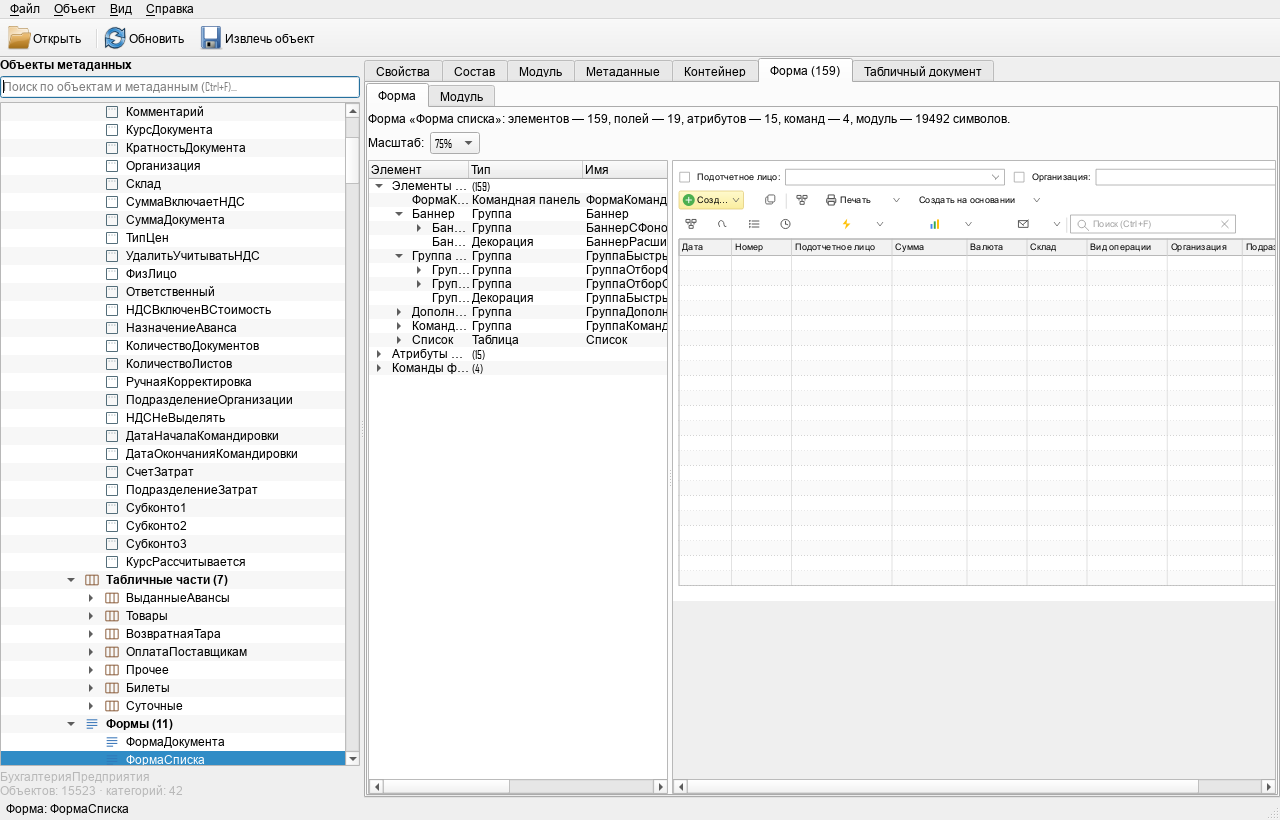
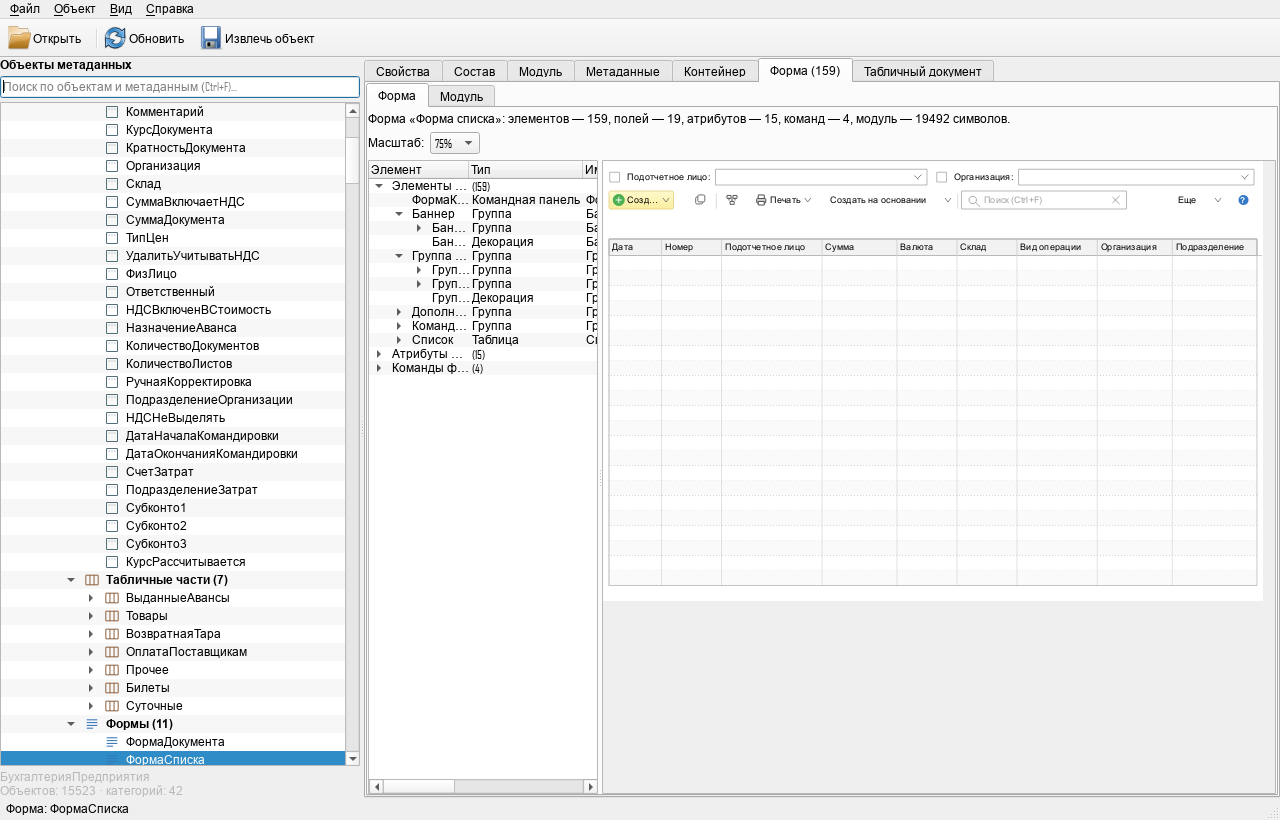
feat(forms): командная панель 1С с «Еще» и правым краем

Changed region(s): [[0.4688, 0.2134, 0.7188, 0.7317], [0.7188, 0.2134, 1.0, 0.3049], [0.5, 0.9451, 0.5312, 0.9756]]

diff --git a/src/gui/FormView.cpp b/src/gui/FormView.cpp
@@ -336,9 +336,16 @@ private:
             return std::max(40.0, m_metrics.horizontalAdvance(item.synonym) + 10.0);
         case Type::Group: {
             if (item.groupKind == 1) {
+                const ButtonIcon icon = iconForButton(item);
+                const bool iconOnly = icon != ButtonIcon::None
+                    && icon != ButtonIcon::Create
+                    && icon != ButtonIcon::CreateBasedOn
+                    && icon != ButtonIcon::Print;
+                if (iconOnly)
+                    return 34.0;
                 const QString title = item.synonym.isEmpty()
                     ? humanizeCommand(item.name) : item.synonym;
-                return std::max(110.0,
+                return std::max(64.0,
                     m_metrics.horizontalAdvance(title) + 44.0);
             }
             if (item.widthUnits > 0)
@@ -371,10 +378,22 @@ private:
 
     bool isTopCommandBar(const v8reader::FormItem &item) const
     {
-        return item.type == v8reader::FormItem::Type::Group
-            && item.groupKind == 0
+        if (item.type != v8reader::FormItem::Type::Group)
+            return false;
+        if (item.groupKind == 0
             && (item.name.contains(QStringLiteral("КоманднаяПанель"))
-                || item.synonym == QStringLiteral("Командная панель"));
+                || item.synonym == QStringLiteral("Командная панель"))) {
+            return true;
+        }
+        // В форме документа командная панель — группа вида 6 с именем
+        // «ГруппаКнопкиКоманднойПанели»; внешняя группа вида 9 не в счёт.
+        if (item.groupKind == 6
+            && (item.name.contains(QStringLiteral("КоманднойПанели"))
+                || item.synonym.contains(QStringLiteral("командн"),
+                                         Qt::CaseInsensitive))) {
+            return true;
+        }
+        return false;
     }
 
     bool isCommandBar(const v8reader::FormItem &item) const
@@ -573,6 +592,8 @@ private:
     bool stretchable(const v8reader::FormItem &item) const
     {
         using Type = v8reader::FormItem::Type;
+        if (isTopCommandBar(item))
+            return true;
         if (item.horizontalStretch == 0)
             return false;
         if (item.widthUnits > 0 && item.horizontalStretch != 1)
@@ -590,8 +611,15 @@ private:
     {
         QVector<const v8reader::FormItem *> visible;
         for (const v8reader::FormItem *item : items) {
-            if (!item->name.endsWith(QStringLiteral("Использование")))
-                visible.append(item);
+            if (item->name.endsWith(QStringLiteral("Использование")))
+                continue;
+            // Служебный элемент «управление поиском» платформа рисует
+            // маленькой кнопкой-магнитиком; в предпросмотре он не нужен.
+            if (item->type == v8reader::FormItem::Type::Search
+                && item->name.contains(QStringLiteral("УправлениеПоиском"))) {
+                continue;
+            }
+            visible.append(item);
         }
         if (visible.isEmpty())
             return 0.0;
@@ -636,15 +664,19 @@ private:
 
         const QHash<QString, QString> usage = usageLabels(items);
 
-        // 1С добавляет в форму списка документа команды, которых нет в модели.
+        // 1С добавляет в форму команды, которых нет в модели: для формы
+        // списка — «Создать на основании», для любой формы — «Еще» и «?».
+        const bool listBar = runtimeCommands && m_document.runtimeListCommands;
         v8reader::FormItem createBasedOn;
         v8reader::FormItem more;
         v8reader::FormItem help;
-        if (runtimeCommands && m_document.runtimeListCommands) {
-            createBasedOn.type = v8reader::FormItem::Type::Group;
-            createBasedOn.groupKind = 1;
-            createBasedOn.name = QStringLiteral("СоздатьНаОсновании");
-            createBasedOn.synonym = QStringLiteral("Создать на основании");
+        if (runtimeCommands) {
+            if (listBar) {
+                createBasedOn.type = v8reader::FormItem::Type::Group;
+                createBasedOn.groupKind = 1;
+                createBasedOn.name = QStringLiteral("СоздатьНаОсновании");
+                createBasedOn.synonym = QStringLiteral("Создать на основании");
+            }
             more.type = v8reader::FormItem::Type::Group;
             more.groupKind = 1;
             more.name = QStringLiteral("Еще");
@@ -654,25 +686,61 @@ private:
             help.name = QStringLiteral("Справка");
             help.synonym = QStringLiteral("?");
 
-            int insertAt = 0;
-            for (int i = 0; i < visible.size(); ++i) {
-                if (visible.at(i)->name == QStringLiteral("Создать")) {
-                    insertAt = i + 1;
-                    break;
+            if (listBar) {
+                int insertAt = 0;
+                for (int i = 0; i < visible.size(); ++i) {
+                    if (visible.at(i)->name == QStringLiteral("Создать")) {
+                        insertAt = i + 1;
+                        break;
+                    }
                 }
-            }
-            // «Создать на основании» в 1С стоит после кнопок важных команд.
-            for (int i = insertAt; i < visible.size(); ++i) {
-                const v8reader::FormItem *item = visible.at(i);
-                if (item->type == v8reader::FormItem::Type::Group
-                    && item->groupKind == 6) {
-                    insertAt = i + 1;
-                    break;
+                // «Создать на основании» в 1С стоит после кнопок важных команд.
+                for (int i = insertAt; i < visible.size(); ++i) {
+                    const v8reader::FormItem *item = visible.at(i);
+                    if (item->type == v8reader::FormItem::Type::Group
+                        && item->groupKind == 6) {
+                        insertAt = i + 1;
+                        break;
+                    }
                 }
+                visible.insert(insertAt, &createBasedOn);
             }
-            visible.insert(insertAt, &createBasedOn);
             visible.append(&more);
             visible.append(&help);
+        }
+
+        auto estimatedWidth = [&](const v8reader::FormItem *item) {
+            double width = std::max(34.0, preferredWidth(*item));
+            if (dropDownButtons.contains(item))
+                width += 12.0;
+            return width;
+        };
+        auto totalWidth = [&](const QVector<const v8reader::FormItem *> &items) {
+            double total = 0.0;
+            for (const v8reader::FormItem *item : items)
+                total += estimatedWidth(item);
+            if (items.size() > 1)
+                total += 8.0 * (items.size() - 1);
+            return total;
+        };
+
+        // Как и 1С, при нехватке ширины сворачиваем глобальные команды и
+        // служебные кнопки в «Еще», вместо переноса панели на вторую строку.
+        if (runtimeCommands && totalWidth(visible) > rect.width()) {
+            QVector<const v8reader::FormItem *> filtered;
+            for (const v8reader::FormItem *item : visible) {
+                const bool globalGroup = item->type == v8reader::FormItem::Type::Group
+                    && item->groupKind == 6
+                    && item->name.contains(QStringLiteral("ГлобальныеКоманды"));
+                const bool minorButton = item->type == v8reader::FormItem::Type::Button
+                    && (item->name.contains(QStringLiteral("КонтекстныеНовости"))
+                        || item->name.contains(QStringLiteral("ОткрытьНовоеОкно")));
+                if (globalGroup || minorButton)
+                    continue;
+                filtered.append(item);
+            }
+            if (!filtered.isEmpty())
+                visible = filtered;
         }
 
         // Кнопка по умолчанию в 1С подсвечена жёлтым. Она выбирается после
@@ -680,12 +748,8 @@ private:
         // для формы документа.
 
         QVector<double> widths;
-        for (int i = 0; i < visible.size(); ++i) {
-            double width = std::max(34.0, preferredWidth(*visible.at(i)));
-            if (dropDownButtons.contains(visible.at(i)))
-                width += 12.0;
-            widths.append(width);
-        }
+        for (int i = 0; i < visible.size(); ++i)
+            widths.append(estimatedWidth(visible.at(i)));
 
         // В командной панели 1С разделяет группы команд вертикальными линиями.
         QVector<bool> separatorBefore(visible.size(), false);
@@ -760,10 +824,34 @@ private:
                 rowHeight = std::max(rowHeight,
                     naturalHeight(*visible.at(row.at(i)), rowWidths.at(i)));
 
+            // Поиск, «Еще» и «?» в 1С прижаты к правому краю командной панели.
+            int rightStart = -1;
+            if (runtimeCommands) {
+                for (int c = 0; c < row.size(); ++c) {
+                    const v8reader::FormItem *item = visible.at(row.at(c));
+                    const bool search = item->type == v8reader::FormItem::Type::Search
+                        && item->name.contains(QStringLiteral("СтрокаПоиска"));
+                    if (search || item->name == QStringLiteral("Еще")
+                        || item->name == QStringLiteral("Справка")) {
+                        rightStart = c;
+                        break;
+                    }
+                }
+            }
+            double rowUsed = 0.0;
+            for (int c = 0; c < row.size(); ++c)
+                rowUsed += rowWidths.at(c);
+            if (row.size() > 1)
+                rowUsed += 8.0 * (row.size() - 1);
+            const double rightShift = (rightStart > 0 && rowUsed < rect.width())
+                ? rect.width() - rowUsed : 0.0;
+
             double x = rect.left();
             for (int c = 0; c < row.size(); ++c) {
                 const int index = row.at(c);
                 const v8reader::FormItem *item = visible.at(index);
+                if (c == rightStart)
+                    x += rightShift;
                 if (separatorBefore.at(index) && c > 0) {
                     PreviewControl line;
                     line.kind = PreviewControl::Kind::Separator;
@@ -1433,6 +1521,7 @@ public:
     explicit FormPreviewWidget(QWidget *parent = nullptr)
         : QWidget(parent)
     {
+        setObjectName(QStringLiteral("formPreview"));
         setMinimumHeight(260);
         setSizePolicy(QSizePolicy::Fixed, QSizePolicy::Fixed);
         setAutoFillBackground(true);
@@ -1537,7 +1626,7 @@ private:
         update();
     }
 
-    static constexpr double kFormWidth = 900.0;
+    static constexpr double kFormWidth = 880.0;
 
     const v8reader::FormDocument *m_document = nullptr;
     QVector<PreviewControl> m_controls;
@@ -1603,7 +1692,9 @@ FormView::FormView(QWidget *parent)
     splitter->addWidget(scroll);
     splitter->setStretchFactor(0, 0);
     splitter->setStretchFactor(1, 1);
-    splitter->setSizes({300, 900});
+    // Дереву элементов достаточно узкой колонки: форма должна занимать
+    // основную часть панели, как клиентское окно в 1С.
+    splitter->setSizes({230, 970});
     layout->addWidget(splitter, 1);
     m_tabs->addTab(formPage, QStringLiteral("Форма"));
 

diff --git a/tests/test_gui_panels.cpp b/tests/test_gui_panels.cpp
@@ -36,6 +36,7 @@ private slots:
     void recentFilesOpenAndMissing();
     void extractionMessages();
     void formViewModuleTab();
+    void formPreviewRenders();
     void highlightSettingsDialog();
     void highlighterUsesCustomColors();
 };
@@ -187,6 +188,46 @@ void TestGuiPanels::formViewModuleTab()
     for (int i = 0; i < tree->topLevelItemCount(); ++i) {
         QVERIFY(tree->topLevelItem(i)->text(0) != QStringLiteral("Модуль формы"));
     }
+}
+
+void TestGuiPanels::formPreviewRenders()
+{
+    FormDocument document;
+    document.name = QStringLiteral("Форма1");
+    document.synonym = QStringLiteral("Форма 1");
+    document.runtimeListCommands = true;
+
+    FormItem bar;
+    bar.type = FormItem::Type::Group;
+    bar.groupKind = 0;
+    bar.name = QStringLiteral("ГруппаКоманднаяПанель");
+    FormItem create;
+    create.type = FormItem::Type::Button;
+    create.name = QStringLiteral("Создать");
+    create.synonym = QStringLiteral("Создать");
+    bar.children.append(create);
+    document.items.append(bar);
+
+    FormItem table;
+    table.type = FormItem::Type::Table;
+    table.name = QStringLiteral("Список");
+    FormItem column;
+    column.type = FormItem::Type::Field;
+    column.name = QStringLiteral("Дата");
+    column.synonym = QStringLiteral("Дата");
+    table.children.append(column);
+    document.items.append(table);
+
+    FormView view;
+    view.resize(1200, 800);
+    view.setDocument(document);
+    view.show();
+    QTest::qWait(20);
+
+    auto *preview = view.findChild<QWidget *>(QStringLiteral("formPreview"));
+    QVERIFY(preview);
+    QVERIFY(preview->width() > 300);
+    QVERIFY(!view.grab().isNull());
 }
 
 void TestGuiPanels::highlightSettingsDialog()

diff --git a/docs/research/forms-format.md b/docs/research/forms-format.md
@@ -87,11 +87,15 @@
 - командная панель плоская: у кнопок нет фона и рамки, иконки 16×16;
   кнопка по умолчанию («Создать» в форме списка, «Провести и закрыть»
   в форме документа) заливается жёлтым градиентом;
+- при нехватке ширины глобальные команды и служебные кнопки (новости,
+  новое окно) сворачиваются в «Еще»; поиск, «Еще» и «?» прижаты к правому
+  краю панели. «Еще» и «?» добавляются в любую форму с командной панелью,
+  включая списки справочников;
 - подписи полей выровнены по правому краю, двоеточие отделено от поля;
   у быстрого отбора флажок стоит перед подписью;
 - подменю (`ПодменюСоздать`, `ПодменюПечать`, …) не выводится отдельной
   кнопкой: если рядом есть кнопка с тем же именем, подменю становится её
-  выпадающим списком;
+  выпадающим списком; подменю-иконки занимают 34 px, а не 110;
 - для формы документа платформа добавляет «Провести и закрыть», «Записать»
   и «Провести»; в бинарной форме их нет, поэтому они синтезируются в
   `LayoutEngine::build` по флагу `FormDocument::runtimeDocumentCommands`.
@@ -203,9 +207,10 @@ HorizontalStretch=1; `ГруппаБаннерОжидание` — Width 24 (24
   (другая структура) отклоняются.
 - Раскладка схематичная: 1С использует собственный autolayout, поэтому
   позиции элементов приближены, а не совпадают пиксель в пиксель.
-- Ширина предпросмотра фиксирована (900 логических px), поэтому на узкой
-  панели командная панель переносится на вторую строку, а не сворачивается
-  в «Еще», как это делает платформа.
+- Ширина предпросмотра фиксирована (880 логических px): при 75% форма
+  целиком помещается в панели, при 100% и более появляется горизонтальная
+  прокрутка. Командная панель при этом сворачивает лишние команды в «Еще»,
+  как 1С, но не подстраивает ширину формы под окно.
 - Набор колонок таблицы — все поля формы. В 1С видимый набор колонок
   хранится в пользовательских настройках, а не в форме, поэтому по умолчанию
   колонок может быть меньше.
@@ -218,8 +223,8 @@ HorizontalStretch=1; `ГруппаБаннерОжидание` — Width 24 (24
 
 1. Точный autolayout: горизонтальные/вертикальные группы, растяжения,
    страницы, таблицы — с учётом свойств элементов.
-2. Сворачивание не помещающихся команд в «Еще» и адаптивная ширина формы
-   под панель просмотра, как в 1С.
+2. Адаптивная ширина формы под панель просмотра и сохранение пропорций
+   при масштабировании.
 3. Свойства элемента при выборе в дереве (данные, обработчики, оформление).
 4. Список атрибутов/команд с типами и признаком «основной реквизит».
 5. Обычные (неуправляемые) формы.

diff --git a/CHANGELOG.md b/CHANGELOG.md
@@ -13,7 +13,8 @@
   `CommandUtils`/`CommandCommon`, диспетчеризация осталась в `CliApplication`.
 - Из `MainWindow` выделены `RecentFilesController` (недавние файлы, меню,
   проверка существования) и `ExtractionController` (выгрузка и текст отчёта).
-- GUI-тесты дополнены проверками недавних файлов и сообщений выгрузки.
+- GUI-тесты дополнены проверками недавних файлов, сообщений выгрузки и
+  отрисовки предпросмотра формы.
 - В просмотре формы появилась отдельная вкладка «Модуль» с текстом модуля
   формы и подсветкой; узлы «Модуль формы» убраны из дерева метаданных.
 - Добавлена настройка подсветки модулей: включение, цвета ключевых слов,
@@ -31,11 +32,18 @@
   жёлтым, подписи полей выровнены по правому краю, флажок быстрого отбора
   стоит перед подписью, таблица получила шапку без полужирного начертания
   и точечную сетку строк.
+- Командная панель ведёт себя как в 1С: при нехватке ширины глобальные
+  команды и служебные кнопки сворачиваются в «Еще», а поиск, «Еще» и «?»
+  прижаты к правому краю. «Еще» и «?» добавляются в любую форму с командной
+  панелью, в том числе в формы справочников.
 - Подменю командной панели (`ПодменюСоздать`, `ПодменюПечать` и т. п.)
   больше не рисуется отдельной кнопкой: если рядом есть кнопка с тем же
-  именем, подменю становится её выпадающим списком.
+  именем, подменю становится её выпадающим списком; подменю-иконки получили
+  компактную ширину.
 - В форму документа добавлены стандартные команды платформы «Провести и
   закрыть», «Записать» и «Провести» (в бинарной форме их нет).
+- Дерево элементов формы стало уже, а сама форма шире: при масштабе 75%
+  она целиком помещается в панели просмотра, как окно 1С.
 
 ## [0.6.1] — 2026-11-18
 

diff --git a/README.md b/README.md
@@ -61,8 +61,8 @@
   формы и макетом, повторяющим базовую раскладку 1С (группы, подписи,
   страницы, таблицы); формы читаются из контейнера без платформы 1С.
   Оформление приближено к 1С 8.3: плоская командная панель, жёлтая кнопка
-  по умолчанию, подписи полей справа, сетка таблицы и стандартные команды
-  формы документа.
+  по умолчанию, сворачивание не помещающихся команд в «Еще», подписи полей
+  справа, сетка таблицы и стандартные команды формы документа.
   Модуль формы открывается отдельной вкладкой «Модуль» внутри просмотра формы.
 - Состав объекта по таблицам 1С: реквизиты, измерения, ресурсы, табличные части
   (с реквизитами), формы, команды, макеты, значения перечислений, признаки учёта.
